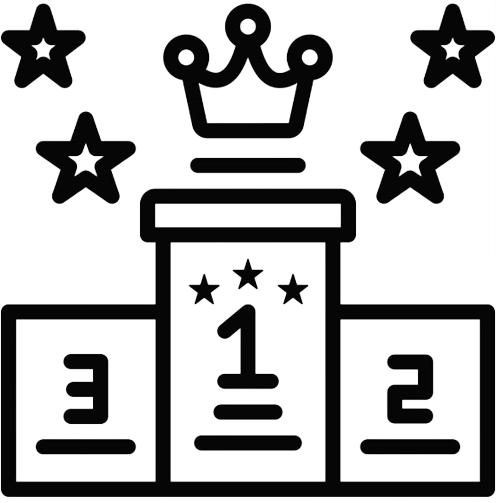
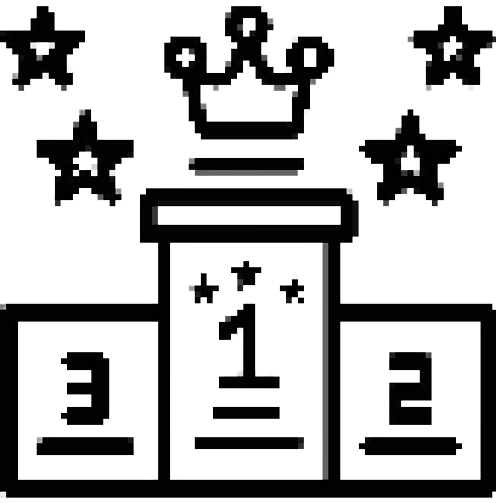
pixel ranking photo

diff --git a/app/assets/stylesheets/pages/_matches_index.scss b/app/assets/stylesheets/pages/_matches_index.scss
@@ -51,6 +51,12 @@
   justify-content: space-around;
   gap: 5px;
 }
+
+.pixel_art_btn_tournament {
+  display: flex;
+  justify-content: flex-start;
+}
+
 // Pas utilisé car on prend le composant bouton général
 // .btn-details {
 //   background-color: #007bff;

diff --git a/app/assets/stylesheets/components/_pixel_art_btn.scss b/app/assets/stylesheets/components/_pixel_art_btn.scss
@@ -12,7 +12,6 @@
   transition: 0.1s;
   text-decoration: none;
   width: 16vw;
-  align-self: center;
 }
 .pixel_art_btn:before {
 content: '';

diff --git a/app/assets/stylesheets/components/_button.scss b/app/assets/stylesheets/components/_button.scss
@@ -49,3 +49,8 @@
   transition: 0.2s;
   display: block;
 }
+
+.back-buttons {
+  display: flex;
+  justify-content: space-between;
+}
